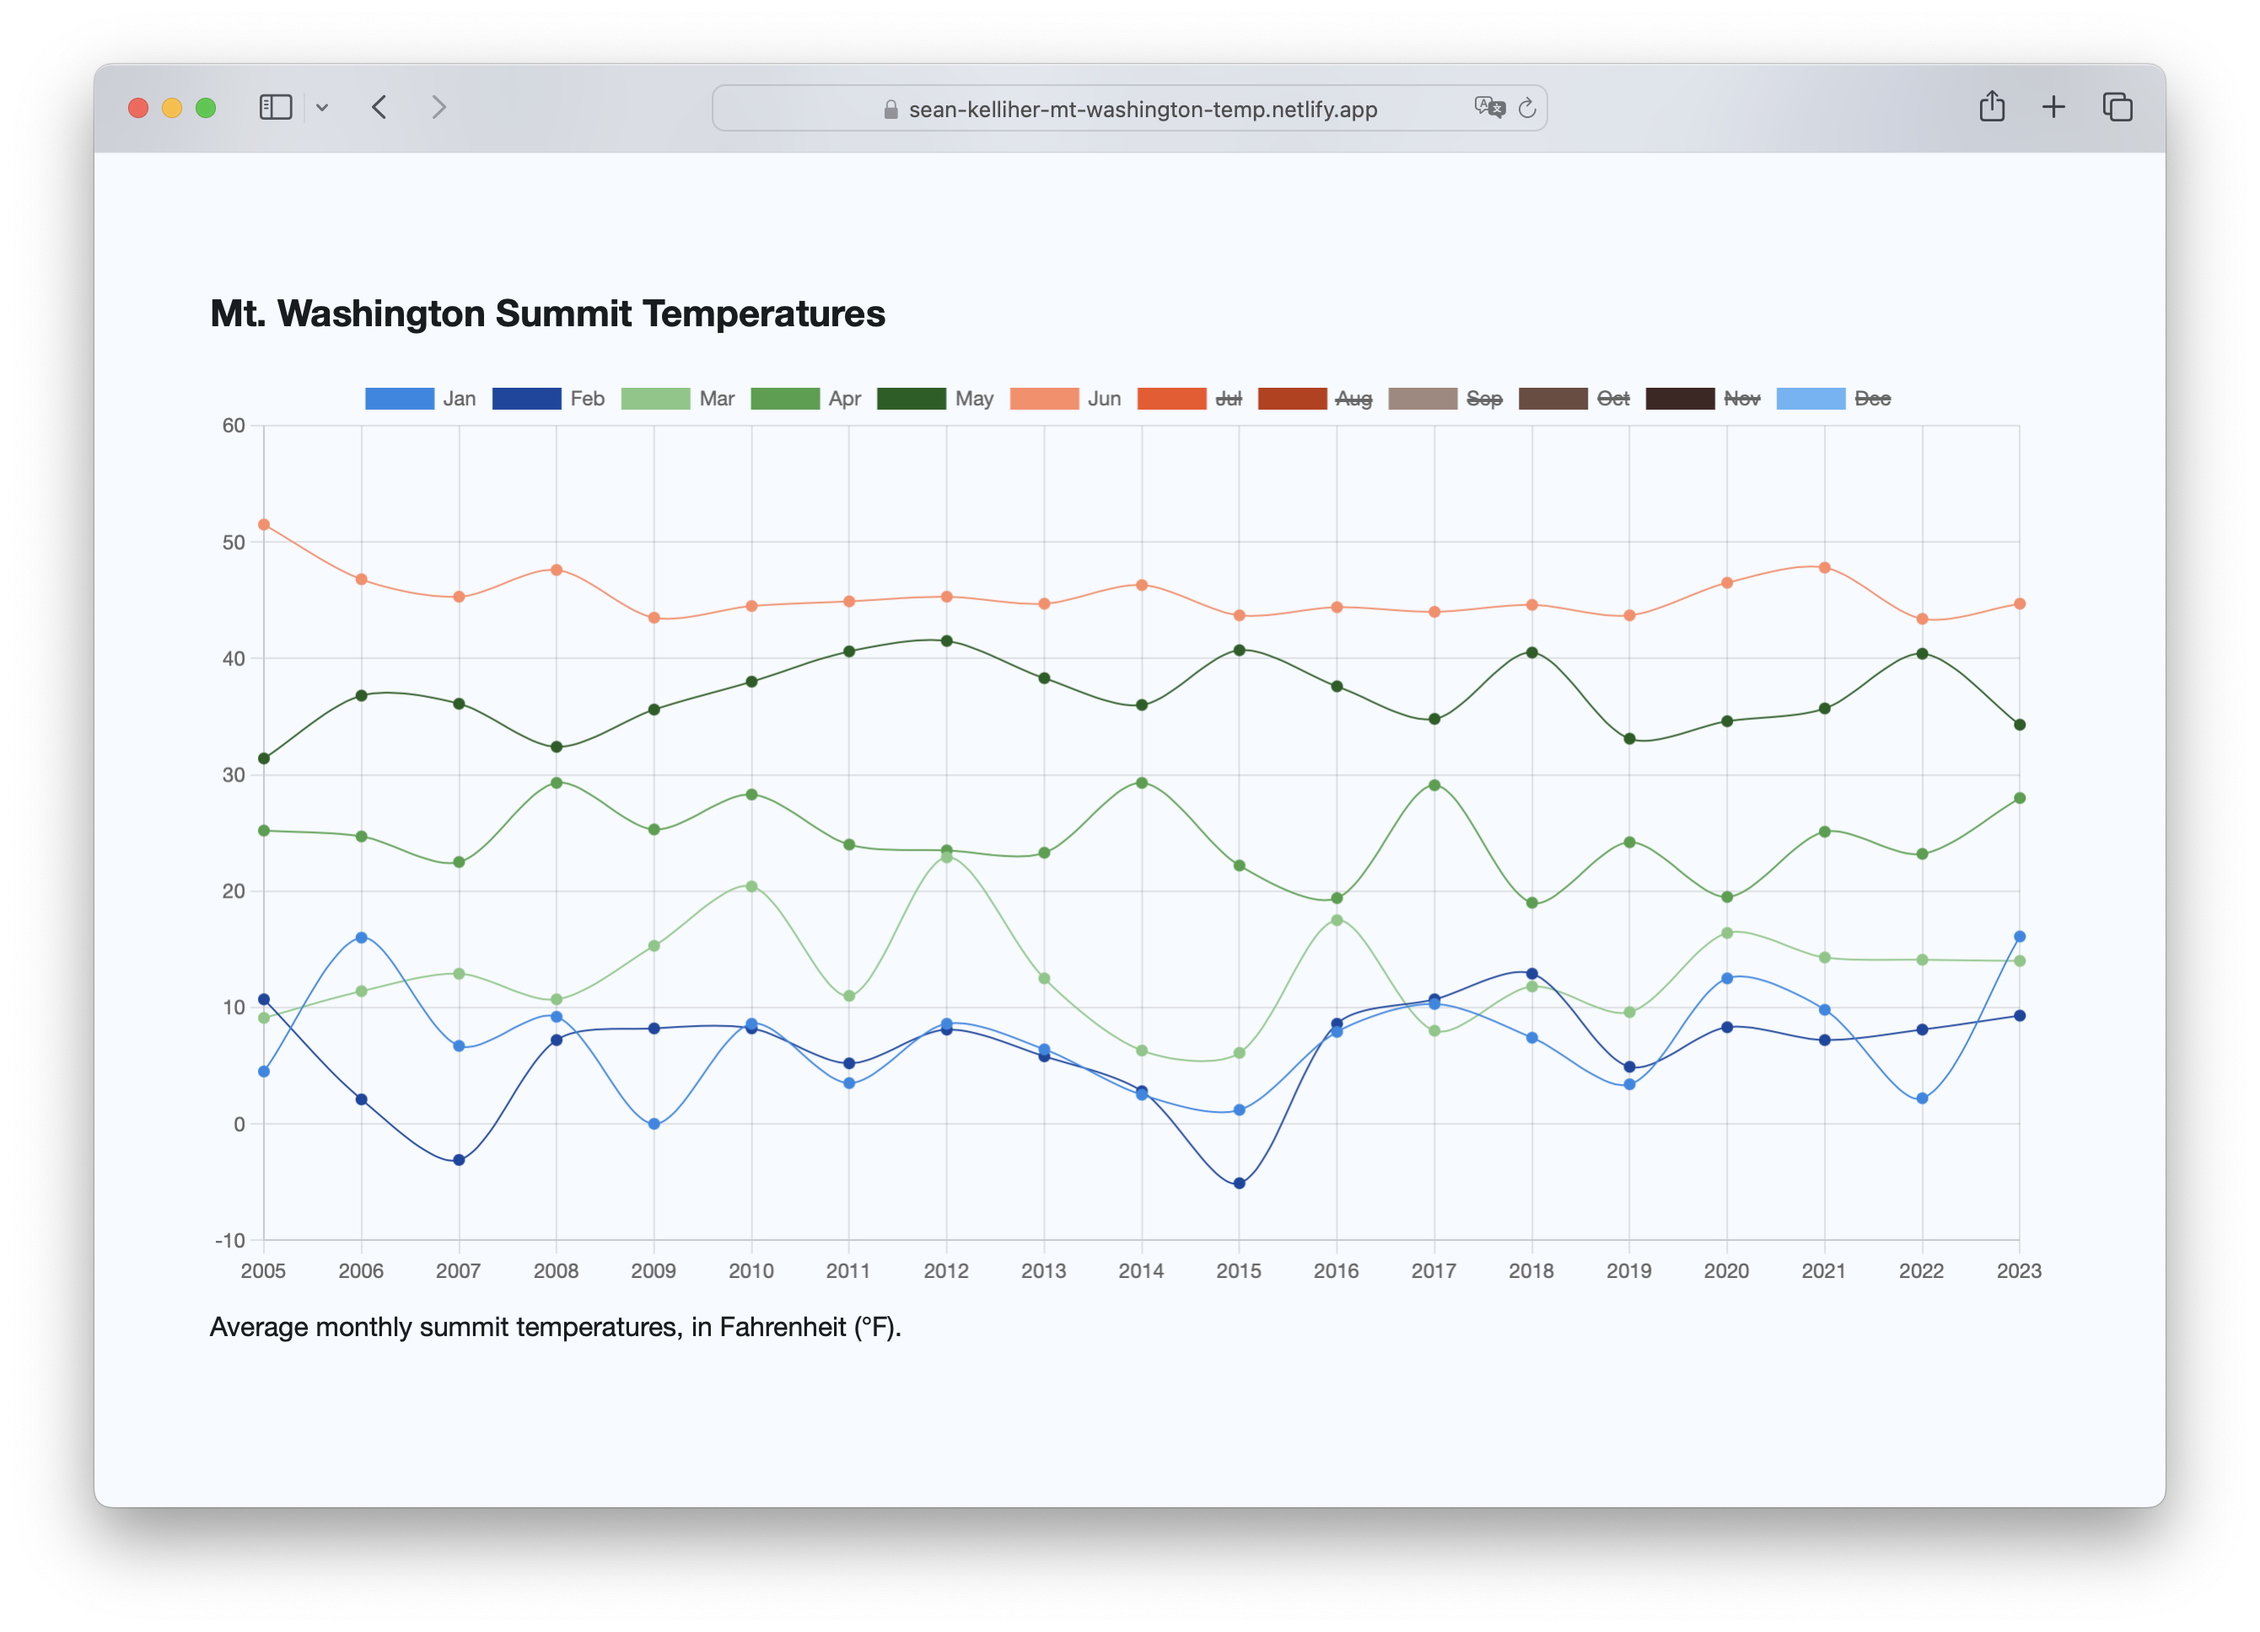
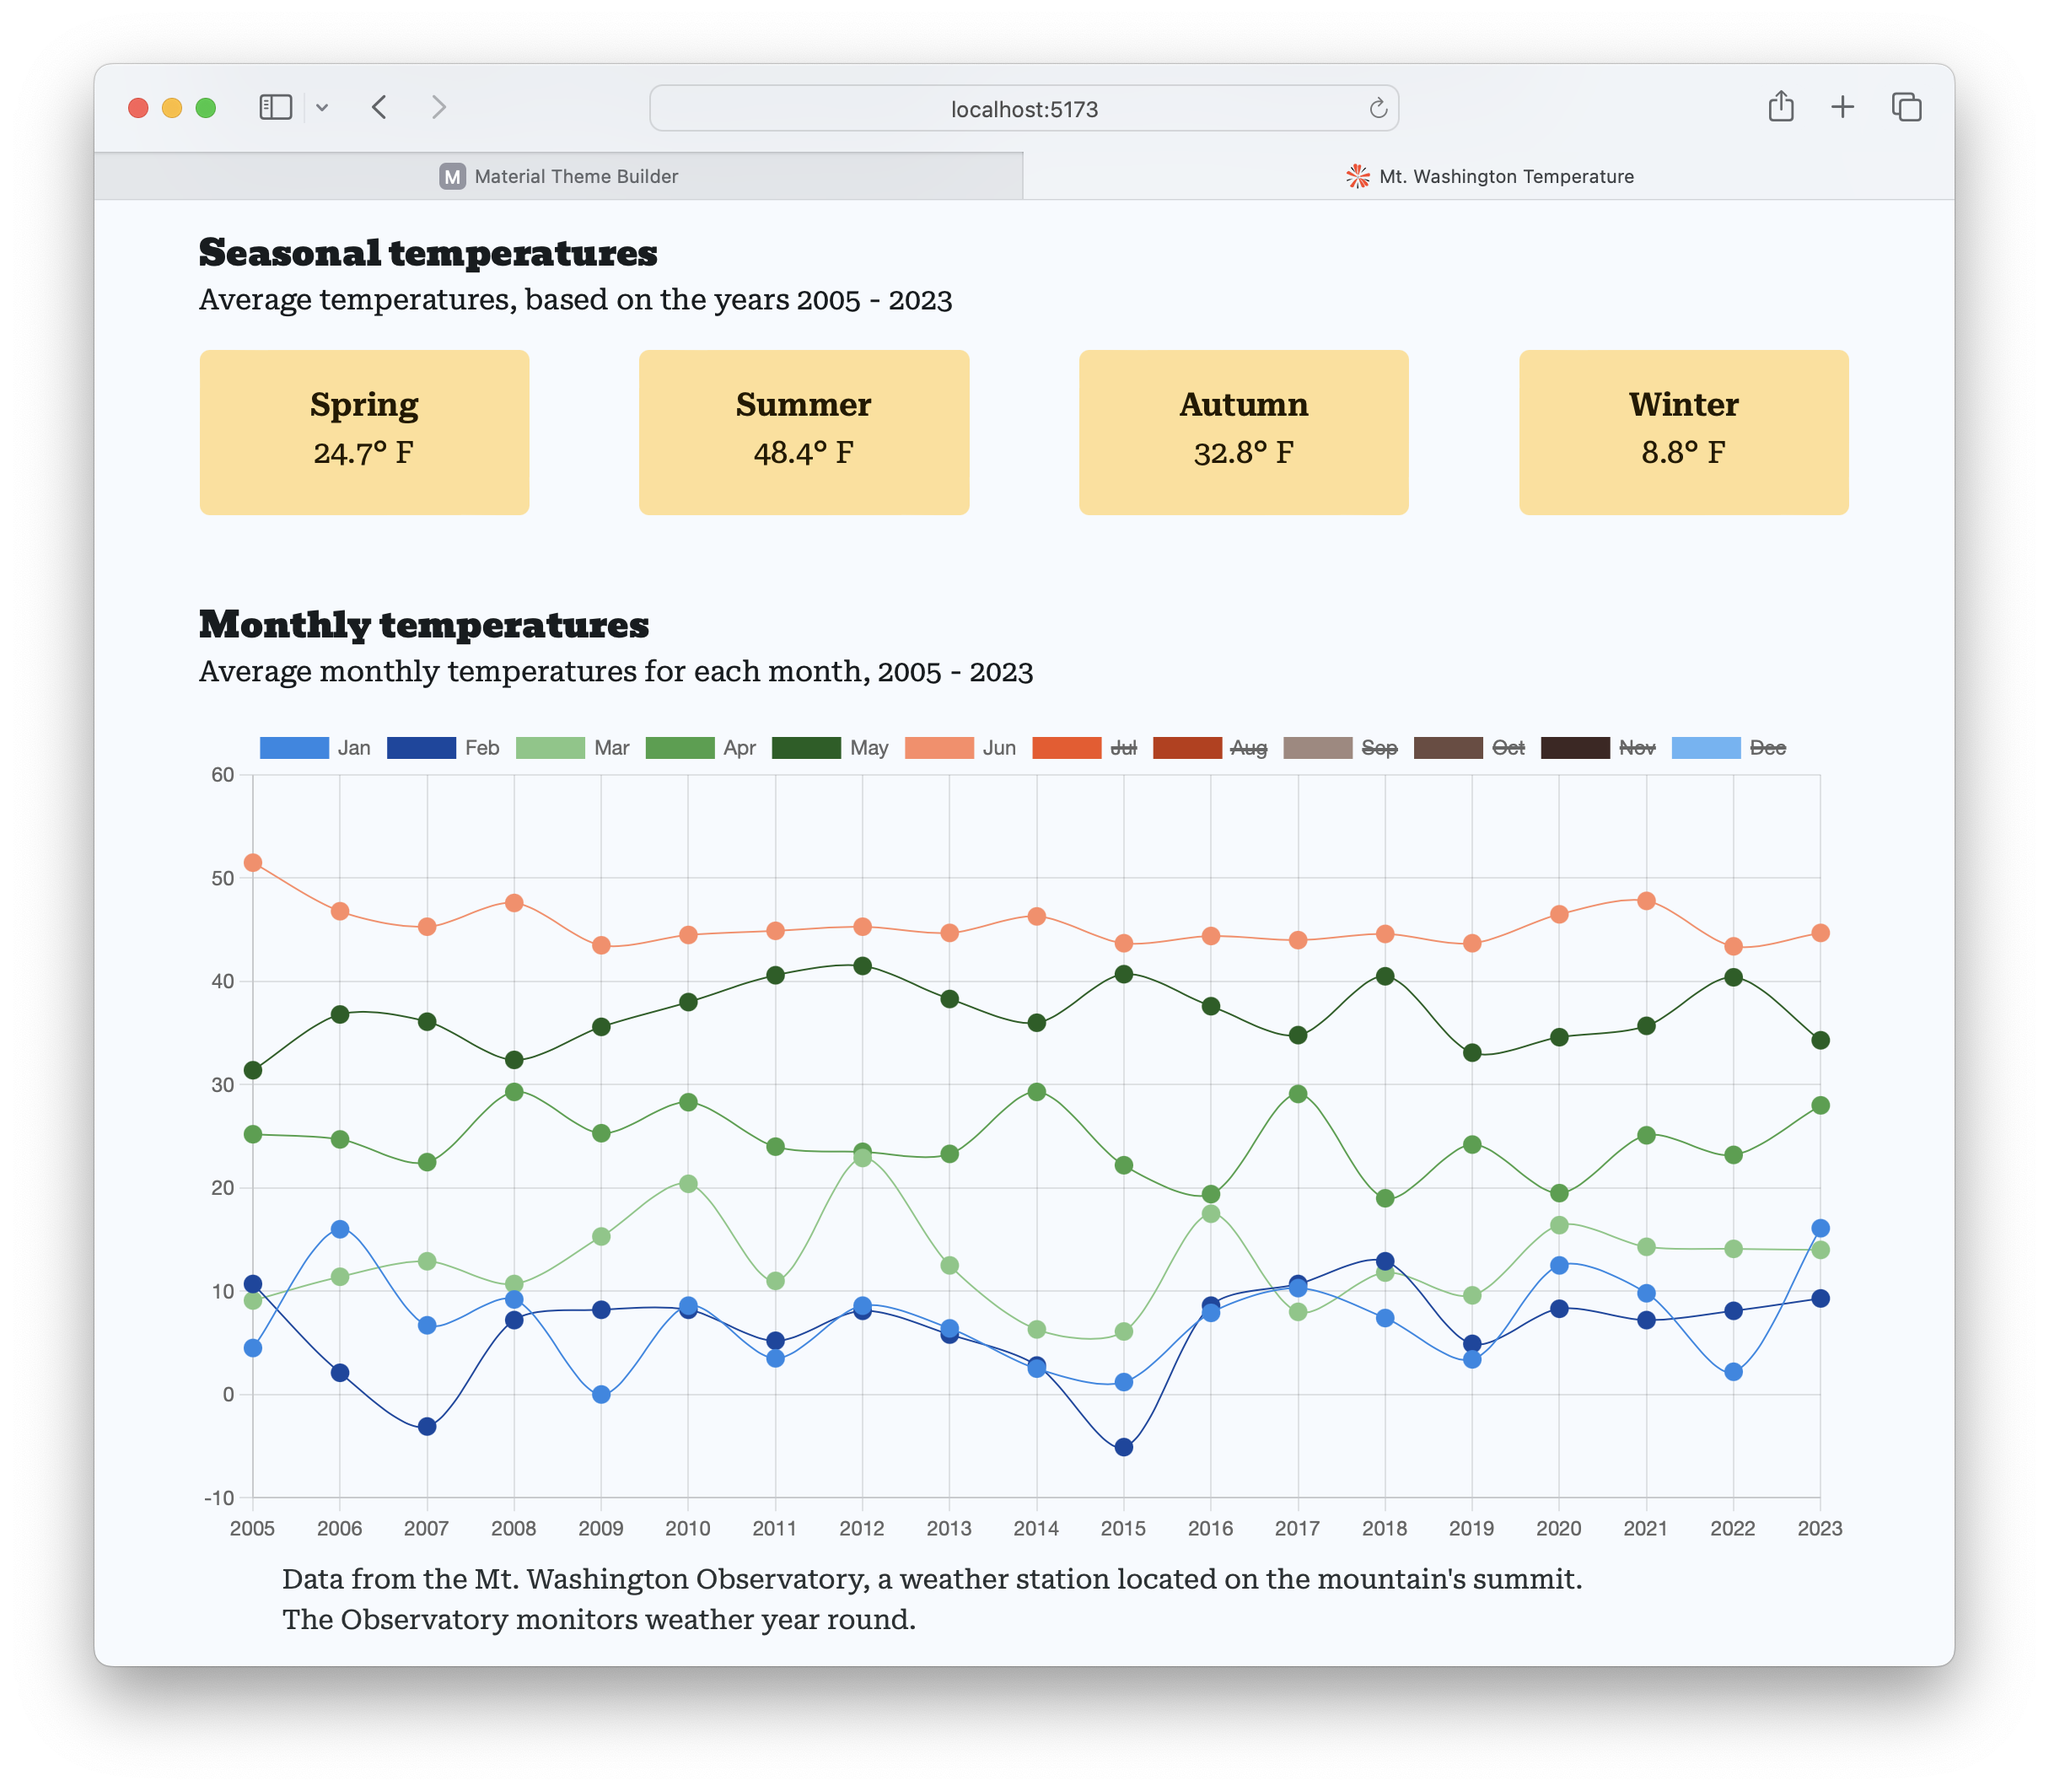
Redo screen shots after modifying design.

diff --git a/README.md b/README.md
@@ -9,10 +9,10 @@ Project meets general accessibility (WACG) and cross-browser requirements. More 
 
 ## Project Screen Shot
 
-* Intro page.
+* Intro image.
 ![screen shot of project](/screenshots/mt-washington-temps-screenshot1.png?s=600)
 
-* Chart.
+* Callouts and chart.
 ![screen shot of project](/screenshots/mt-washington-temps-screenshot2.png?s=600)
 
 ## Installation and Setup Instructions
